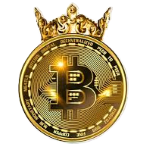
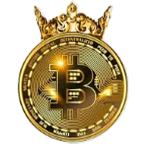
过了一遍图标 整体图标会饱满一些

diff --git a/docs/PVE/PVE-LXC_Debian-Docker_SubStore.md b/docs/PVE/PVE-LXC_Debian-Docker_SubStore.md
@@ -23,7 +23,15 @@
 选中创建的容器，点击启动，输入用户名：root 及密码，开始部署服务
 <img width="1914" height="361" alt="image" src="https://github.com/user-attachments/assets/8b86c7dd-8755-4390-a492-498ef008f961" />
 
-### （一）一键安装 Docker 服务
+
+### （一）一键开启 SSH 服务 （不开启三方SSH工具无法连接）
+用于快速配置 Debian 系统的 SSH 服务，自动安装、启用 root 登录和密码认证，并开放防火墙端口
+```markdown
+bash -c "$(echo 'OS_TYPE=$([ -f /etc/os-release ] && . /etc/os-release && echo $ID || echo unknown); [ "$(id -u)" -ne 0 ] && echo "请使用root权限运行" && exit 1; echo "正在配置SSH..."; if command -v apt &>/dev/null; then apt update && apt install -y openssh-server; elif command -v yum &>/dev/null; then yum install -y openssh-server; fi; CONF="/etc/ssh/sshd_config"; sed -i "s/^#\\?PermitRootLogin.*/PermitRootLogin yes/g" $CONF; sed -i "s/^#\\?PasswordAuthentication.*/PasswordAuthentication yes/g" $CONF; if command -v systemctl &>/dev/null; then systemctl restart sshd || systemctl restart ssh; elif command -v service &>/dev/null; then service sshd restart || service ssh restart; fi; if [ "$(passwd -S root 2>/dev/null | awk "{print \$2}")" = "NP" ] || [ "$(passwd -S root 2>/dev/null | awk "{print \$2}")" = "L" ]; then echo "设置root密码:"; passwd root; fi; if command -v ufw &>/dev/null && ufw status | grep -q "active"; then ufw allow 22/tcp; fi; IP=$(ip -4 addr show scope global | grep -oP "(?<=inet\s)\d+(\.\d+){3}" | head -n 1 || ifconfig | grep -Eo "inet (addr:)?([0-9]*\.){3}[0-9]*" | grep -v "127.0.0.1" | head -n 1); echo "SSH已配置! 连接命令: ssh root@${IP:-<主机IP>}"')"
+```
+
+
+### （二）一键安装 Docker 服务
 在SSH终端，执行如下命令，全程交互式执行，安装docker全家桶
 
 ```
@@ -34,7 +42,7 @@ bash <(curl -sSL https://linuxmirrors.cn/docker.sh)
 关于报错：https://linuxmirrors.cn/use/#%E5%85%B3%E4%BA%8E%E6%8A%A5%E9%94%99-command-not-found
 
 
-### （二）一键安装 Docker 图形化管理工具（DPanel）
+### （三）一键安装 Docker 图形化管理工具（DPanel）
 执行以下安装脚本，根据命令行提示完成安装
 
 ```
@@ -44,13 +52,6 @@ docker run -d --name dpanel --restart=always \
  dpanel/dpanel:lite
 ```
 发布地：https://github.com/donknap/dpanel
-
-
-### （三）一键开启 SSH 服务 （不开启三方SSH工具无法连接）
-用于快速配置 Debian 系统的 SSH 服务，自动安装、启用 root 登录和密码认证，并开放防火墙端口
-```markdown
-bash -c "$(echo 'OS_TYPE=$([ -f /etc/os-release ] && . /etc/os-release && echo $ID || echo unknown); [ "$(id -u)" -ne 0 ] && echo "请使用root权限运行" && exit 1; echo "正在配置SSH..."; if command -v apt &>/dev/null; then apt update && apt install -y openssh-server; elif command -v yum &>/dev/null; then yum install -y openssh-server; fi; CONF="/etc/ssh/sshd_config"; sed -i "s/^#\\?PermitRootLogin.*/PermitRootLogin yes/g" $CONF; sed -i "s/^#\\?PasswordAuthentication.*/PasswordAuthentication yes/g" $CONF; if command -v systemctl &>/dev/null; then systemctl restart sshd || systemctl restart ssh; elif command -v service &>/dev/null; then service sshd restart || service ssh restart; fi; if [ "$(passwd -S root 2>/dev/null | awk "{print \$2}")" = "NP" ] || [ "$(passwd -S root 2>/dev/null | awk "{print \$2}")" = "L" ]; then echo "设置root密码:"; passwd root; fi; if command -v ufw &>/dev/null && ufw status | grep -q "active"; then ufw allow 22/tcp; fi; IP=$(ip -4 addr show scope global | grep -oP "(?<=inet\s)\d+(\.\d+){3}" | head -n 1 || ifconfig | grep -Eo "inet (addr:)?([0-9]*\.){3}[0-9]*" | grep -v "127.0.0.1" | head -n 1); echo "SSH已配置! 连接命令: ssh root@${IP:-<主机IP>}"')"
-```
 
 
 ### （四）一键安装部署 Sub-Store（订阅管理工具）

diff --git a/sub-store/Debian安装Sub-Store_（推荐）.md b/sub-store/Debian安装Sub-Store_（推荐）.md
@@ -1,5 +1,11 @@
-## 一、一键安装 Docker 服务
+## 一、一键开启 SSH 服务（不开启三方SSH工具无法连接）
+用于快速配置 Debian 系统的 SSH 服务，自动安装、启用 root 登录和密码认证，并开放防火墙端口。
+```markdown
+bash -c "$(echo 'OS_TYPE=$([ -f /etc/os-release ] && . /etc/os-release && echo $ID || echo unknown); [ "$(id -u)" -ne 0 ] && echo "请使用root权限运行" && exit 1; echo "正在配置SSH..."; if command -v apt &>/dev/null; then apt update && apt install -y openssh-server; elif command -v yum &>/dev/null; then yum install -y openssh-server; fi; CONF="/etc/ssh/sshd_config"; sed -i "s/^#\\?PermitRootLogin.*/PermitRootLogin yes/g" $CONF; sed -i "s/^#\\?PasswordAuthentication.*/PasswordAuthentication yes/g" $CONF; if command -v systemctl &>/dev/null; then systemctl restart sshd || systemctl restart ssh; elif command -v service &>/dev/null; then service sshd restart || service ssh restart; fi; if [ "$(passwd -S root 2>/dev/null | awk "{print \$2}")" = "NP" ] || [ "$(passwd -S root 2>/dev/null | awk "{print \$2}")" = "L" ]; then echo "设置root密码:"; passwd root; fi; if command -v ufw &>/dev/null && ufw status | grep -q "active"; then ufw allow 22/tcp; fi; IP=$(ip -4 addr show scope global | grep -oP "(?<=inet\s)\d+(\.\d+){3}" | head -n 1 || ifconfig | grep -Eo "inet (addr:)?([0-9]*\.){3}[0-9]*" | grep -v "127.0.0.1" | head -n 1); echo "SSH已配置! 连接命令: ssh root@${IP:-<主机IP>}"')"
+```
 
+
+## 二、一键安装 Docker 服务
 在SSH终端，执行如下命令，全程交互式执行，安装docker全家桶。
 
 ```
@@ -9,10 +15,8 @@ bash <(curl -sSL https://linuxmirrors.cn/docker.sh)
 ```
 关于报错：https://linuxmirrors.cn/use/#%E5%85%B3%E4%BA%8E%E6%8A%A5%E9%94%99-command-not-found
 
----
 
-## 二、一键安装 Docker 图形化管理工具（DPanel）
-
+## 三、一键安装 Docker 图形化管理工具（DPanel）
 执行以下安装脚本，根据命令行提示完成安装。
 
 ```
@@ -23,19 +27,8 @@ docker run -d --name dpanel --restart=always \
 ```
 发布地：https://github.com/donknap/dpanel
 
----
-
-## 三、一键开启 SSH 服务
-
-用于快速配置 Debian 系统的 SSH 服务，自动安装、启用 root 登录和密码认证，并开放防火墙端口。
-```markdown
-bash -c "$(echo 'OS_TYPE=$([ -f /etc/os-release ] && . /etc/os-release && echo $ID || echo unknown); [ "$(id -u)" -ne 0 ] && echo "请使用root权限运行" && exit 1; echo "正在配置SSH..."; if command -v apt &>/dev/null; then apt update && apt install -y openssh-server; elif command -v yum &>/dev/null; then yum install -y openssh-server; fi; CONF="/etc/ssh/sshd_config"; sed -i "s/^#\\?PermitRootLogin.*/PermitRootLogin yes/g" $CONF; sed -i "s/^#\\?PasswordAuthentication.*/PasswordAuthentication yes/g" $CONF; if command -v systemctl &>/dev/null; then systemctl restart sshd || systemctl restart ssh; elif command -v service &>/dev/null; then service sshd restart || service ssh restart; fi; if [ "$(passwd -S root 2>/dev/null | awk "{print \$2}")" = "NP" ] || [ "$(passwd -S root 2>/dev/null | awk "{print \$2}")" = "L" ]; then echo "设置root密码:"; passwd root; fi; if command -v ufw &>/dev/null && ufw status | grep -q "active"; then ufw allow 22/tcp; fi; IP=$(ip -4 addr show scope global | grep -oP "(?<=inet\s)\d+(\.\d+){3}" | head -n 1 || ifconfig | grep -Eo "inet (addr:)?([0-9]*\.){3}[0-9]*" | grep -v "127.0.0.1" | head -n 1); echo "SSH已配置! 连接命令: ssh root@${IP:-<主机IP>}"')"
-```
-
----
 
 ## 四、一键安装部署 Sub-Store（订阅管理工具）
-
 Sub-Store 是一款用于管理和转换网络订阅的工具，支持定时更新、多格式转换等功能。
 
 ```bash

diff --git a/README.md b/README.md
@@ -28,15 +28,15 @@
 >  配置文件默认开启 **绕过中国大陆模式**，匹配大陆IP-CIDR（流量不进入代理）
 > 
 
-### 🛠 配套工具
-> - Windows端一键生成工具 **（推荐使用）**：**[Seven1_Yaml_生成工具.exe](https://raw.githubusercontent.com/Seven1echo/Yaml/refs/heads/main/Seven1_Yaml_%E7%94%9F%E6%88%90%E5%B7%A5%E5%85%B7.exe)**
-> - 流程：用户输入 → 模板下载 → YAML结构替换 → 输出文件
-
 ### 🗂 配置区分
 | 类型 | **Geo** | **Rule-Set** | **Overwrite** | **Smart** |
 |:--:|:--:|:--:|:--:|:--:|
 | 说明 | 使用**数据库**分流 | 使用**规则集**分流 | 软件覆写文件 | Smart核心 |
 | 文件 | [***_Geo.yaml](https://github.com/Seven1echo/Yaml/blob/main/Seven1_fallback_Geo.yaml) | [***_Rule-Set.yaml](https://github.com/Seven1echo/Yaml/blob/main/Seven1_fallback_Rule-Set.yaml) | [***_Overwrite.yaml](https://github.com/Seven1echo/Yaml/blob/main/Seven1_fallback_Rule-Set_Clashmi_Overwrite.yaml) | [***_Smart.yam](https://github.com/Seven1echo/Yaml/tree/main/config/smart) |
+
+### 🛠 配套工具
+> - Windows端一键生成工具 **（推荐使用）**：**[Seven1_Yaml_生成工具.exe](https://raw.githubusercontent.com/Seven1echo/Yaml/refs/heads/main/Seven1_Yaml_%E7%94%9F%E6%88%90%E5%B7%A5%E5%85%B7.exe)**
+> - 流程：用户输入 → 模板下载 → YAML结构替换 → 输出文件
 
 ### 📚 图文教程
 > 
